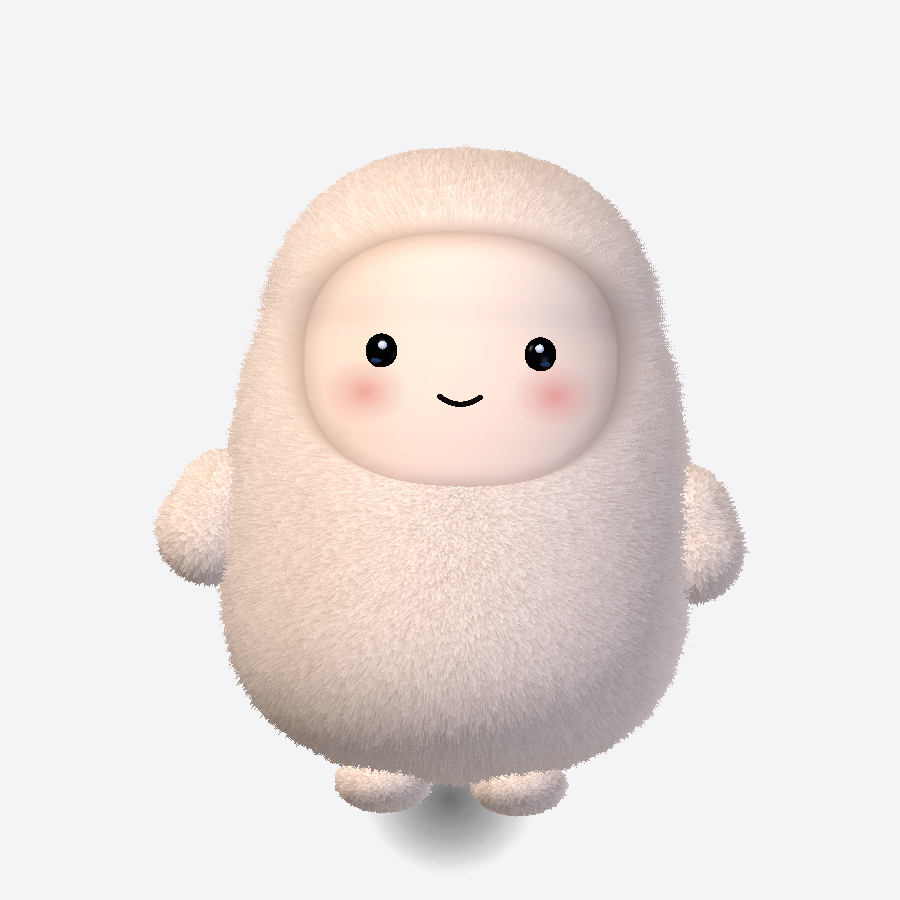
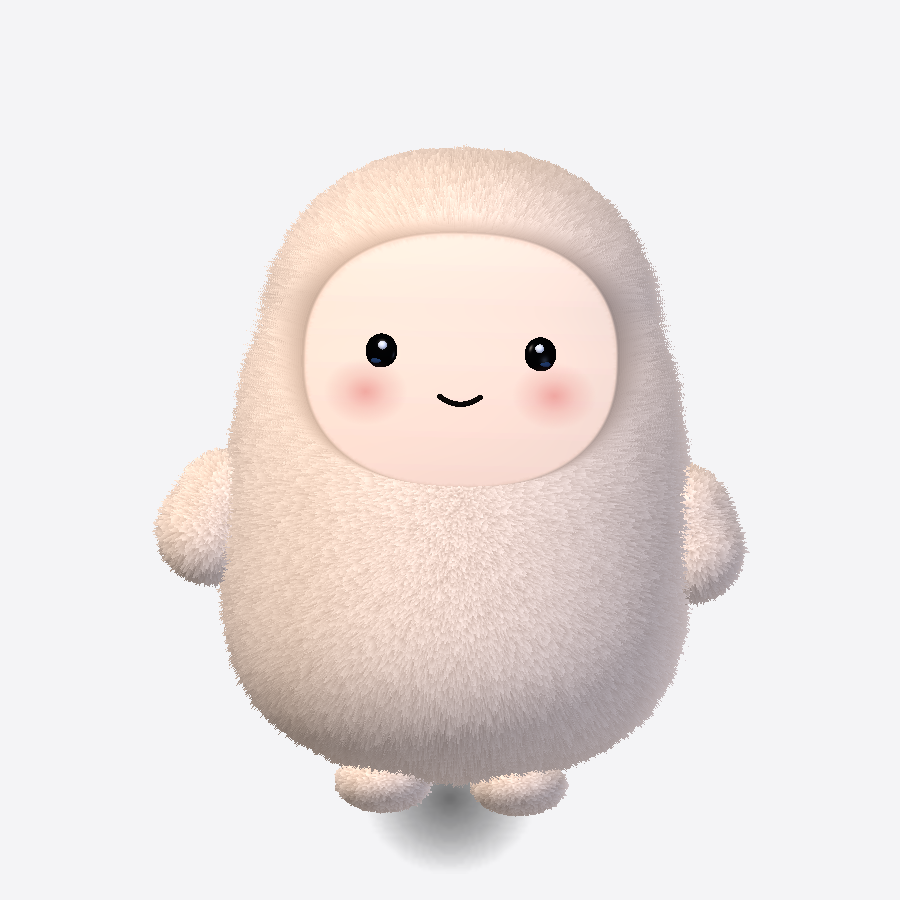
Clean face shading: smoothed normals, natural strand-shaped fur shadow

Changed region(s): [[0.3733, 0.2489, 0.6844, 0.5289], [0.3422, 0.3111, 0.4044, 0.5289], [0.5289, 0.5289, 0.5911, 0.56]]

diff --git a/Sources/Pip/PipRig.swift b/Sources/Pip/PipRig.swift
@@ -422,15 +422,31 @@ final class PipRig: PetRig {
                 var b = top.b + (bottom.b - top.b) * t
 
                 // 脸和毛的接缝处一道淡淡的接触阴影（很窄），轮廓更利落、更立体
-                // 帽沿投在脸上的阴影：靠边缘才有，上边缘（ny<0，被头顶的毛挡光）更深更宽
+                // 毛自然投下的影子：紧贴边缘一圈很窄的暖色影，宽窄按一根根毛参差（不是均匀的灰带）；
+                // 上边缘被头顶的毛挡光，影子略宽。最外缘再搭一圈细细的浅色毛尖。
+                let angle = atan2(ny, nx) + .pi
+                let k = Int(angle / (2 * .pi) * Double(strands.count)) % strands.count
+                let k2 = (k + 1) % strands.count
+                let hair = strands[k] * 0.6 + strands[k2] * 0.4
                 let topness = max(0, -ny)
-                let start = 0.86 - 0.10 * topness
-                let v = min(1, max(0, (rho - start) / (1 - start)))
-                // 很淡、偏暖（原版接缝几乎没有暗线，高低感主要靠隆起的毛圈）
-                let shade = v * v * (0.04 + 0.04 * topness)
-                r *= 1 - shade * 0.7
-                g *= 1 - shade
-                b *= 1 - shade * 1.1
+                let shadowWidth = (0.035 + 0.03 * topness) * (0.6 + 0.8 * hair)
+                let inside = 1 - rho                                 // 0 在边缘
+                if inside < shadowWidth {
+                    let u = 1 - inside / shadowWidth                 // 越靠边越深
+                    let shade = u * u * 0.22
+                    let warm = (r: 0.80, g: 0.70, b: 0.64)           // 毛根色调，不是灰
+                    r += (warm.r - r) * shade
+                    g += (warm.g - g) * shade
+                    b += (warm.b - b) * shade
+                }
+                let fringe = 0.012 + 0.02 * hair * (0.4 + 0.6 * topness)
+                if inside < fringe {
+                    let tip = (r: 0.965, g: 0.935, b: 0.915)         // 毛尖色
+                    let f = 1 - inside / fringe
+                    r += (tip.r - r) * f
+                    g += (tip.g - g) * f
+                    b += (tip.b - b) * f
+                }
 
                 let index = (y * size + x) * 4
                 pixels[index]     = UInt8(max(0, min(255, r * alpha * 255)))
@@ -482,6 +498,30 @@ final class PipRig: PetRig {
                 if n.z < 0 { n = SCNVector3(-n.x, -n.y, -n.z) }
                 nor[k] = n
             }
+        }
+        // 身体轮廓是折线插值，曲率在折点突变 → 脸上会出现一条条横向明暗纹（看着像脏印）。
+        // 把法线在网格上反复做邻域平均，磨成一个光滑的鼓包。
+        for _ in 0..<10 {
+            var smoothed = nor
+            for j in 0...rows {
+                for i in 0...cols {
+                    var acc = SCNVector3(0, 0, 0)
+                    for (dj, di) in [(0, 0), (-1, 0), (1, 0), (0, -1), (0, 1)] {
+                        let jj = min(max(j + dj, 0), rows), ii = min(max(i + di, 0), cols)
+                        let n = nor[jj * (cols + 1) + ii]
+                        acc = SCNVector3(acc.x + n.x, acc.y + n.y, acc.z + n.z)
+                    }
+                    let l = max(0.0001, sqrt(acc.x * acc.x + acc.y * acc.y + acc.z * acc.z))
+                    smoothed[j * (cols + 1) + i] = SCNVector3(acc.x / l, acc.y / l, acc.z / l)
+                }
+            }
+            nor = smoothed
+        }
+        // 法线往正前方收一些：保留一点鼓包的立体，但两侧不会暗成一圈（旁边的毛是亮的，一对比就显脏）
+        nor = nor.map { n in
+            let v = SCNVector3(n.x * 0.45, n.y * 0.45, n.z + 0.6)
+            let l = max(0.0001, sqrt(v.x * v.x + v.y * v.y + v.z * v.z))
+            return SCNVector3(v.x / l, v.y / l, v.z / l)
         }
         var idx: [UInt32] = []
         for j in 0..<rows {

diff --git a/HANDOFF.md b/HANDOFF.md
@@ -237,3 +237,4 @@ swift build                 # 调试编译
 - 11-05 再调：脸 42×34、超椭圆指数 2.35（2.15 两头尖、2.7 四角方）；毛剪短到 3.3、贴图 9×3.9 更密、下垂 0.12、根部阴影 0.9、毛长分布 pow 0.5（不结缕，之前像淋湿）；眼距 ±10.6、腮红 ±12.6。
 - 11-05 脸边改利落：去掉羽化和「盖进来的毛」，只留 1.5% 抗锯齿 + 一道窄接触阴影；绒毛禁区 r<1.0 与脸同大。
 - 11-05 脸凹进毛里：faceBulge 1.3（始终低于毛）；Fur 几何 shader 在脸外 1.0～1.5 倍范围把毛加长到 2 倍，隆起成帽沿；接缝阴影改成极淡的暖色（之前一圈灰太黑），脸 ambient 0.8。
+- 11-05 去「脏」：脸法线 10 轮邻域平滑（去掉横纹）+ 往正前方收 0.45（两侧不暗成一圈）；接缝改成按毛参差的窄暖影 + 细浅毛尖，不再是均匀灰带。
